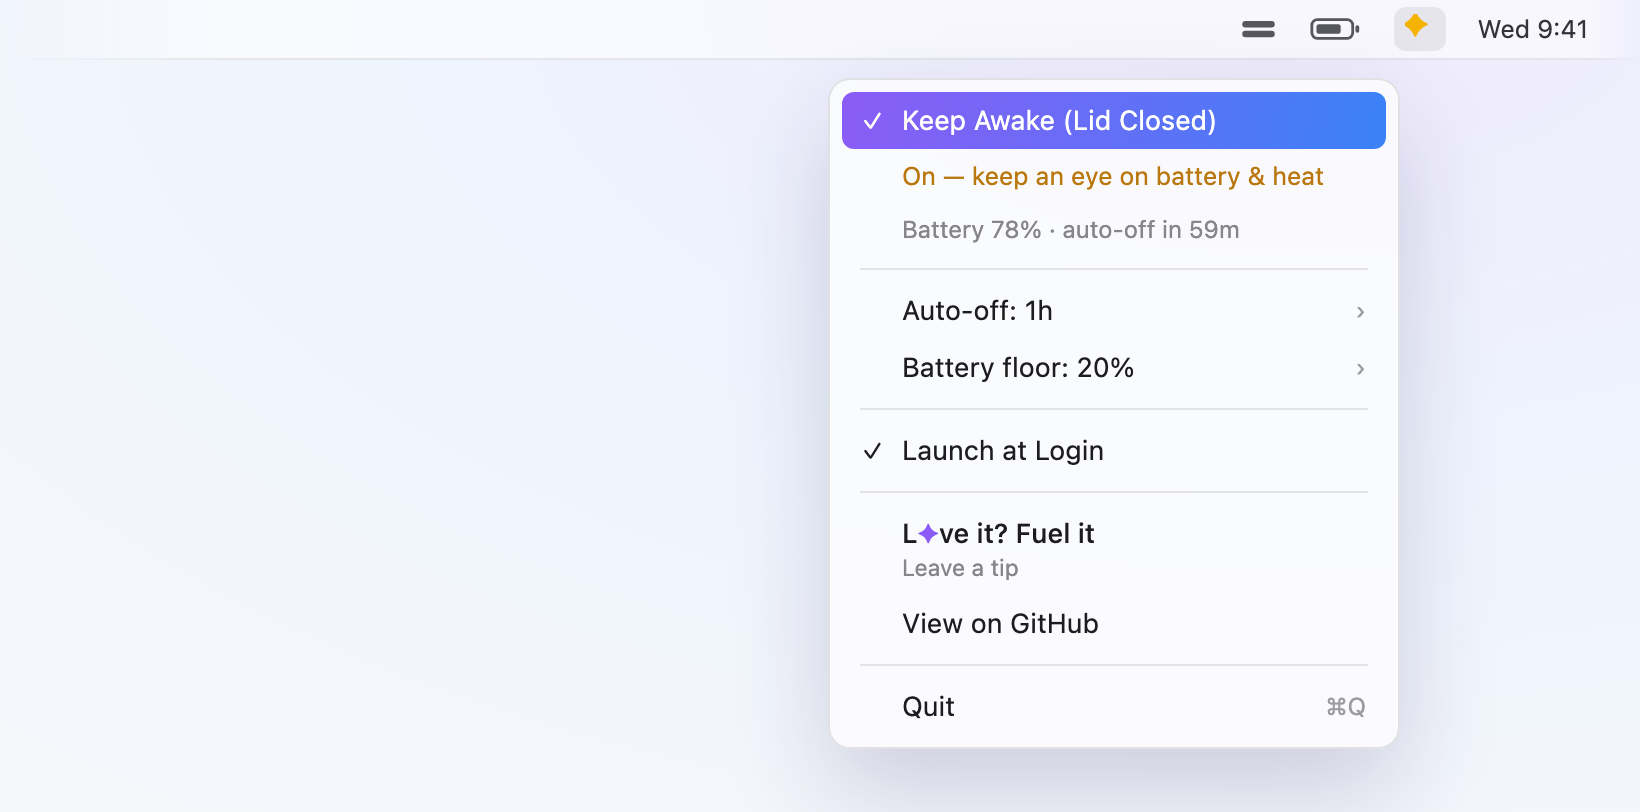
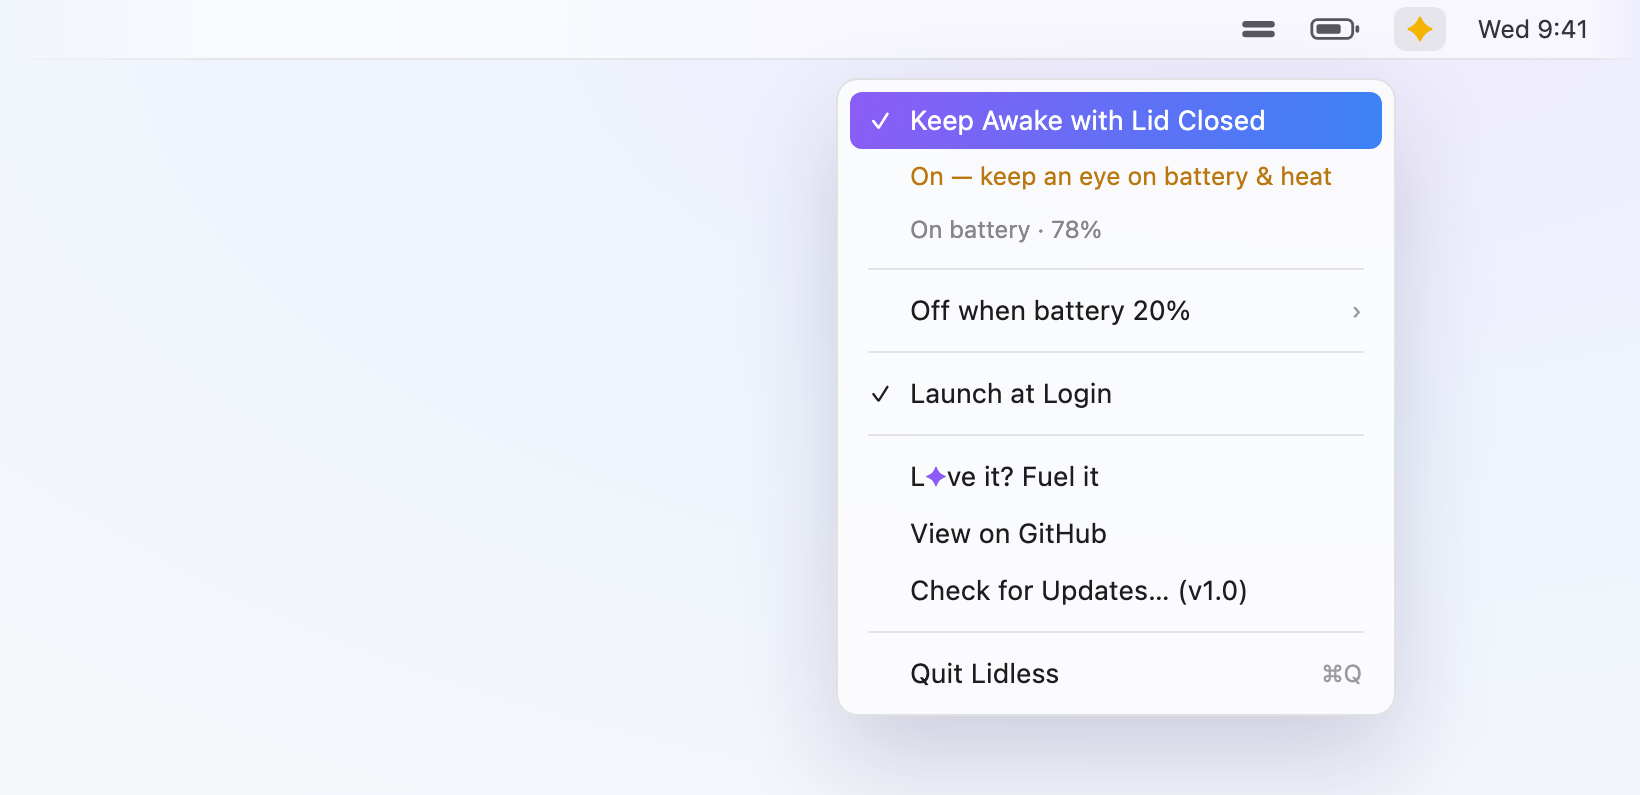
docs: original README (multi-agent) + light menu mockup matching current build

diff --git a/README.md b/README.md
@@ -1,75 +1,141 @@
-<p align="center">
-  <img src="icon/AppIcon-1024.png" width="120" alt="Lidless icon">
-</p>
+<div align="center">
 
-<h1 align="center">Lidless</h1>
+<img src="icon/AppIcon-1024.png" alt="Lidless" width="128" height="128" />
 
-<p align="center"><b>Keep your Mac awake with the lid closed.</b><br>
-<sub>One menu-bar switch. Auto-off timer + battery-floor so it can’t drain you flat. Notarized, universal, tiny.</sub></p>
+# Lidless
 
-<p align="center">
-  <img src="assets/menu.png" width="560" alt="Lidless menu-bar dropdown">
-</p>
+**Close the lid. Keep working.**
+
+A macOS menu-bar app that keeps your Mac awake with the lid shut — so the build, the agent, the render, the upload, *whatever you started* keeps going while you walk out the door.
+
+<sub>Notarized · Universal (Apple Silicon + Intel) · macOS 13+ · ~1–2 MB · No daemon, no telemetry</sub>
+
+<br />
+
+<img src="assets/menu.png" alt="The Lidless menu" width="360" />
+
+</div>
 
 ---
 
-Close the lid and your Mac keeps running — finishing a build, an upload, an AI agent, a render — on battery, with no external display and no HDMI dummy plug.
+## The walk-across-town build
 
-The catch most apps hit: a closed lid sleeps your Mac, and `caffeinate`-based apps (KeepingYouAwake & friends) **can’t** change that — by design. Lidless flips the one setting that can, `pmset disablesleep`, and wraps it in safety nets so it’s safe to forget.
+You kick off Claude — or whatever agent you've got driving — on a real task. Not a toy. A refactor across forty files, a test suite that takes twenty minutes, a migration that touches everything. It's *thinking*. It's *typing*. It's going to be a while.
 
-## Why Lidless
+So you close the lid, drop the MacBook in your backpack, and leave.
 
-- ✦ **Actually works lid-closed** — not just idle-sleep like the caffeine apps.
-- 🔒 **Notarized by Apple** — double-click and it opens. No “unidentified developer”, no right-click dance.
-- 💻 **Universal** — Apple Silicon **and** Intel, macOS 13+.
-- 🪶 **Native & tiny** — a plain menu-bar menu (no custom pop-over UI), one Swift file, no Dock icon, no daemon, no kext, no telemetry.
+You're three blocks away when you pull out your phone, SSH back in, and check on it. The agent is still going. The lid is shut. The Mac is wide awake in the dark of your bag, churning through the work, and you're outside in the sun.
 
-## Features
+That's the whole idea. **Your Mac doesn't have to be open for your Mac to be working.** The desk was never the point — the desk was the leash. Lidless cuts it.
 
-- **One switch** — click the star, flip it. ✦ yellow = awake, grey = normal.
-- **Auto-off timer** — Off / 1h / 2h, with a live countdown.
-- **Battery floor** — auto-off on battery at 10–30% (default 20%) so it never drains flat.
-- **Launch at login** — optional, off by default.
+When you get where you're going, you flip the lid back up and there it is: the diff, the green checkmarks, the finished thing. It never stopped. Neither did you.
 
-## Lidless vs the alternatives
+---
 
-| | **Lidless** | Amphetamine | KeepingYouAwake | `caffeinate` |
-|---|:---:|:---:|:---:|:---:|
-| Awake, lid closed, no monitor | ✅ | ⚠ opt-in | ❌ | ❌ |
-| On battery | ✅ | ✅ | lid open | ⚠ |
-| Auto-off timer | ✅ | ✅ | ✅ | ❌ |
-| Battery-floor cutoff | ✅ | ❌ | ❌ | ❌ |
-| Intel **and** Apple Silicon | ✅ | ✅ | ✅ | ✅ |
-| Native menu, no custom UI | ✅ | ❌ | ✅ | — |
-| Open source | ✅ | ❌ | ✅ | ✅ |
+## Turn it on, walk away
+
+The toggle is the easy part. The reason you'll actually *trust* it is the safety net watching your back the moment you're not looking:
+
+- **🔋 Battery floor** — running on battery? Lidless flips back to normal sleep before the charge gets dangerous, so a forgotten laptop in a bag never drains to a hard zero.
+
+You don't have to babysit it. That's the entire point.
+
+---
+
+## The menu-bar star
+
+Lidless lives as a single star (`✦`) in your menu bar. No Dock icon, no window, no pop-over with sliders to fiddle — just a plain, native macOS menu you already know how to use.
+
+- **✦ yellow** — awake. Lid-close sleep is off. Work continues.
+- **✦ dimmed** — normal. Your Mac sleeps when you close it, like always.
+
+Glance at the star and you know the state. It reads straight from the system, so it always reflects reality — not what it *hopes* is true.
+
+---
+
+## Who it's for
+
+- **🚶 The AI-coding nomad.** You're running Claude or a coding agent on your MacBook and remote-driving the work from your phone. You zip the laptop into your backpack, walk across the city, and the agent keeps building with the lid shut. The build finishes while you're crossing the street. *This is the one.*
+- **🎬 The render-and-go crowd.** Long video exports, audio bounces, image batches — kick it off, close the lid, go get lunch.
+- **⬆ Anyone moving big bytes.** Multi-gigabyte uploads and downloads you don't want guillotined the moment the hinge clicks shut.
+- **🛠 Compile-and-test people.** Heavy builds and slow test suites that need the machine alive, not the human — running clamshell on your desk, no external display required.
+- **🔌 SSH stay-reachable folks.** Keep the Mac on the network and reachable while it sits closed on a shelf — a little always-on box that doesn't nap when you fold it shut.
+- **🎵 The kitchen DJ.** Mac plugged into the speakers, lid down, music playing — no awkward propped-open laptop on the counter.
+
+---
+
+## A friendly word on heat *(read this once)*
+
+Nothing scary — just physics worth knowing. A closed Mac that's staying awake has almost no airflow (the lid is the vent), so it runs warmer than usual, especially under a real workload and *especially* sealed inside a bag where the heat has nowhere to go.
+
+Two easy habits and you're golden:
+
+- **Give it a touch now and then.** If it's working hard in a backpack, check it isn't getting genuinely hot. Warm is fine; hot-and-trapped is worth opening the bag for.
+- **Fanless MacBook Airs warm up faster.** No fan means heat has nowhere to shed, so don't seal one shut and forget about it for hours under load.
+
+The **Battery floor** has your back on power — it cuts to normal sleep before your battery bottoms out. It doesn't manage *heat*, though. That part's on you, and it's an easy part. The menu even keeps you honest while it's on: *"On — keep an eye on battery & heat."*
+
+---
+
+## How it works *(no magic, no hand-waving)*
+
+macOS has exactly one switch that overrides "lid closed → go to sleep": `pmset disablesleep`. Lidless flips that switch on when you want to stay awake, flips it off when you don't, and reads the current state back from `pmset -g` so the star always tells the truth.
+
+That's the entire mechanism. No fake keystrokes, no background daemon pretending you moved the mouse. One real system setting, toggled honestly. It's essentially one Swift file driving a native `NSMenu` — you could read the whole thing over a coffee.
+
+Changing that setting needs admin rights, so you get two honest paths:
+
+1. **Zero setup.** The first time you toggle, macOS shows its standard admin-password dialog. Authenticate and you're done. Nothing is installed behind your back.
+2. **One-time passwordless grant.** Prefer never to see the dialog again? Building with `install.sh` adds a narrow `sudoers` rule scoped to *exactly* `/usr/bin/pmset` and nothing else, so toggling is silent from then on.
+
+No background helper hangs around. No invisible privileged daemon. What you see is what runs.
+
+---
 
 ## Install
 
-**Download** the latest [release](../../releases/latest), unzip to `/Applications`, double-click. It’s notarized — it just opens.
+### Download (recommended — the no-grant path)
 
-**Build from source:**
+1. Grab the latest [**GitHub Release**](https://github.com/sshykvlv/lidless/releases/latest).
+2. Unzip and drag **Lidless.app** into `/Applications`.
+3. Double-click it.
+
+It just *opens*. Lidless is **notarized by Apple** under a Developer ID, so there's no "unidentified developer" wall, no right-click-then-Open dance, no Gatekeeper detour. It ships as a **universal binary** — native on Apple Silicon and Intel — and needs **macOS 13 (Ventura) or newer**. The first time you toggle it on, macOS asks for your admin password once; approve it and you're set.
+
+### Build from source *(adds the passwordless grant)*
+
 ```sh
 git clone https://github.com/sshykvlv/lidless.git
-cd lidless && ./install.sh
+cd lidless
+./install.sh
 ```
-`install.sh` builds a universal app, installs it, and (optionally) sets up a passwordless `pmset` grant so toggling never asks for a password. Without that grant, Lidless simply asks for your admin password via the standard macOS dialog the first time you toggle.
 
-## A note on bags & batteries
-
-With Lidless on, your Mac doesn’t sleep — even closed. On a fanless MacBook Air that means it runs warm with no airflow, and the battery drains. The **battery-floor** cutoff stops it before zero, but don’t leave it sealed in a bag for hours. For work not tied to this machine, a server + `tmux` is the calmer path.
-
-## How it works
-
-Lidless runs `pmset -a disablesleep 1/0`. That needs admin rights, so either:
-- a one-time `sudoers` grant (`install.sh`) → silent toggling, or
-- the standard macOS admin-password prompt per toggle (no setup).
-
-It reads state back from `pmset -g`. That’s the whole trick.
-
-## Support
-
-Free and open source under [MIT](LICENSE). If it saves your bacon — **L✦ve it? Fuel it** → *(coming soon)*.
+`install.sh` builds the app, drops it in `/Applications`, **and** writes the one-line passwordless `pmset` grant — so toggling never prompts again. It asks for your admin password once (via the system dialog) to install that `sudoers` rule. Requires the Xcode command-line tools. When it's done, look for the star in your menu bar. *(Want no grant at all? Use the Release download above instead.)*
 
 ---
 
-<sub>Not affiliated with Apple. Use with sense — keeping a Mac awake on battery in an enclosed bag generates heat.</sub>
+## Why so small, why so quiet
+
+Because a thing that keeps your Mac awake shouldn't need a Dock icon, a settings window with twelve tabs, a phone-home analytics pipeline, or a launch daemon you'll find two years from now and not remember installing.
+
+No daemon. No kext. No telemetry — it doesn't phone home because there's nothing to phone home about. It does one job, makes its one privileged action explicit, weighs almost nothing, and ships every line of its source under MIT. That's the whole design philosophy, and it fits in a sentence.
+
+---
+
+## L✦ve it? Fuel it
+
+If Lidless has bought you a few walks across town — saved a build, a render, or your sanity — a tip buys the next coffee.
+
+> Donation link *(coming soon)*
+
+---
+
+## License
+
+[MIT](LICENSE) — use it, fork it, read every line of it. Built by **Sasha Yakovlev**.
+
+[github.com/sshykvlv/lidless](https://github.com/sshykvlv/lidless)
+
+<div align="center">
+<sub>Made for people who'd rather close the lid and keep moving.</sub>
+</div>
